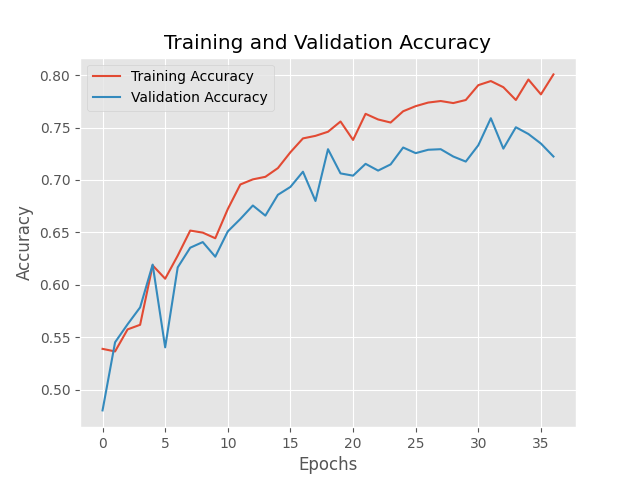
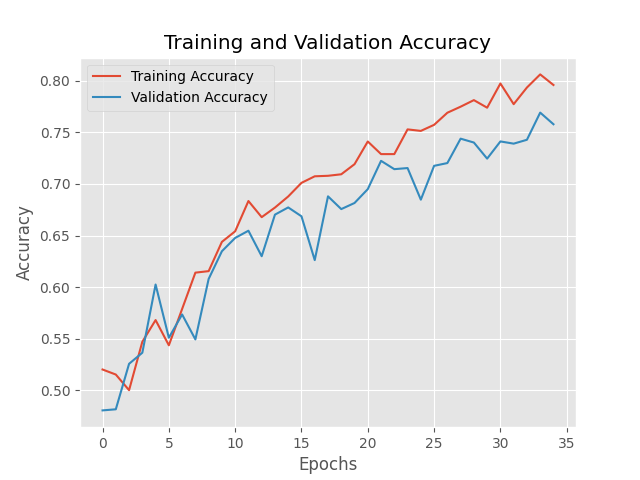
Ran resnet50 no transfer

diff --git a/dataset.py b/dataset.py
@@ -41,22 +41,22 @@ class Hotdog_NotHotdog(torch.utils.data.Dataset):
 
 def get_data(batch_size = 16):
     size = 256
-    train_transform = transforms.Compose([# transforms.RandomRotation(10),
-                                        transforms.Resize((size, size)), 
-                                        # transforms.RandomHorizontalFlip(),
-                                        # transforms.ColorJitter(),
-                                        transforms.ToTensor()])
-     
-    # train_transform = transforms.Compose([transforms.RandomRotation(10),
+    # train_transform = transforms.Compose([# transforms.RandomRotation(10),
     #                                     transforms.Resize((size, size)), 
-    #                                     transforms.RandomHorizontalFlip(),
-    #                                     transforms.ColorJitter(),
-    #                                     transforms.ToTensor(), 
-    #                                     transforms.Normalize((0.5, 0.5, 0.5), (0.5, 0.5, 0.5))])
+    #                                     # transforms.RandomHorizontalFlip(),
+    #                                     # transforms.ColorJitter(),
+    #                                     transforms.ToTensor()])
+     
+    train_transform = transforms.Compose([transforms.RandomRotation(10),
+                                        transforms.Resize((size, size)), 
+                                        transforms.RandomHorizontalFlip(),
+                                        transforms.ColorJitter(),
+                                        transforms.ToTensor(), 
+                                        transforms.Normalize((0.5, 0.5, 0.5), (0.5, 0.5, 0.5))])
 
     test_transform = transforms.Compose([transforms.Resize((size, size)), 
                                         transforms.ToTensor()
-                                        #,transforms.Normalize((0.5, 0.5, 0.5), (0.5, 0.5, 0.5))
+                                        ,transforms.Normalize((0.5, 0.5, 0.5), (0.5, 0.5, 0.5))
                                         ])
 
 

diff --git a/main.py b/main.py
@@ -16,14 +16,13 @@ import utilities as ut
 from model import FinetuneResnet50, Network, ResNet
 
 
-def train(model, optimizer, train_loader, test_loader, device, num_epochs=50,):
+def train(model, optimizer, train_loader, test_loader, device, num_epochs=50, patience = 10):
     def loss_fun(output, target):
         return F.cross_entropy(output, target)
     out_dict = {'train_acc': [],
               'test_acc': [],
               'train_loss': [],
               'test_loss': []}
-    patience = 3
     for epoch in range(num_epochs):
         model.train()
         #For each epoch
@@ -71,8 +70,6 @@ def train(model, optimizer, train_loader, test_loader, device, num_epochs=50,):
             if patience == 0:
                 print("Early stopping")
                 break
-        else:
-            patience = 3
 
     return out_dict
 
@@ -82,9 +79,7 @@ def main():
     train_data, test_data = dataset.get_data(64)
 
     device = ut.get_device()
-    # model = ResNet(3,16, num_res_blocks=8)
-    model = Network()
-    # model = FinetuneResnet50(2)
+    model = FinetuneResnet50(2)
     model.to(device)
     # optimizer = torch.optim.Adam(model.parameters(), lr=0.001, weight_decay=0.0001)
     optimizer = torch.optim.SGD(model.parameters(), lr=0.001, momentum=0.9)

diff --git a/model.py b/model.py
@@ -78,10 +78,10 @@ class ResNet(nn.Module):
 
 
 class FinetuneResnet50(nn.Module):
-    def __init__(self, num_classes):
+    def __init__(self, num_classes, pretrained = True):
         super(FinetuneResnet50, self).__init__()
 
-        self.model = models.resnet50(pretrained=False)
+        self.model = models.resnet50(pretrained=pretrained)
         self.fc1 = nn.Linear(2048, 2048)
         self.fc2 = nn.Linear(2048, num_classes)
         self.dropout = nn.Dropout(0.1)
